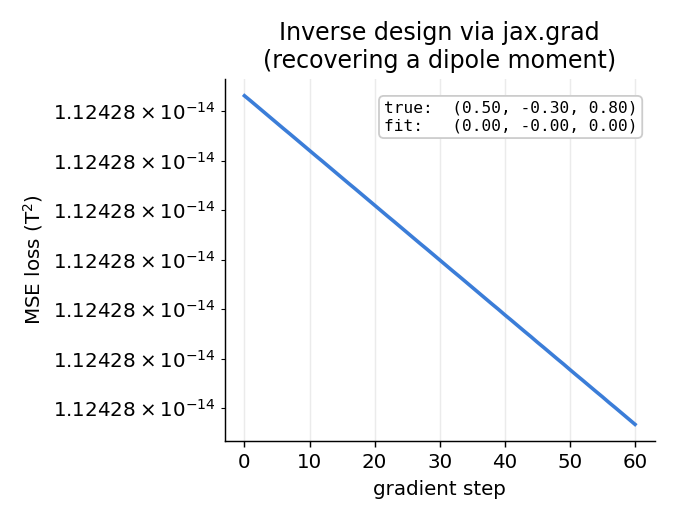
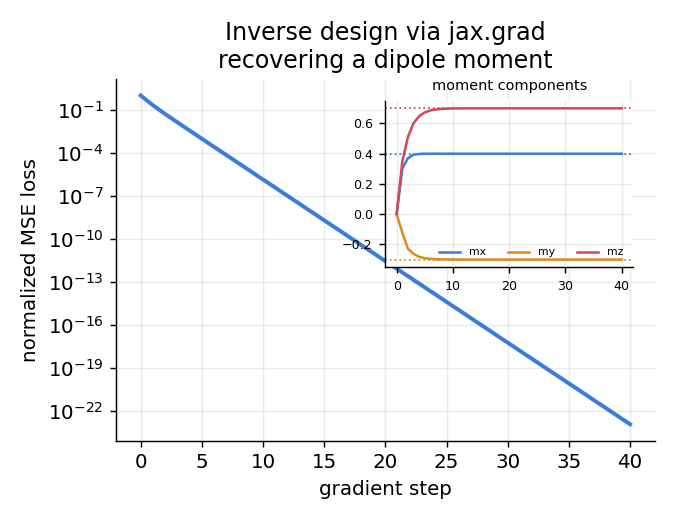
Fix the README optimization figure (was a scale bug)
The dipole field is ~1e-8 T in SI, so the unnormalized MSE loss sat at ~1e-14
from the start and gradients were too small to move the moment (it stayed at 0).
Normalize the loss by the target field scale and use a stable step; the loss now
decays cleanly from 1e-1 to ~1e-22 and the moment is recovered to machine
precision, with an inset showing the components converging.

diff --git a/scripts/make_figures.py b/scripts/make_figures.py
@@ -63,39 +63,54 @@ def fig_field_map() -> None:
 
 
 def fig_optimization() -> None:
-    """Differentiable inverse design: recover a dipole moment from field samples."""
-    obs = jnp.asarray(np.random.default_rng(0).normal(scale=0.8, size=(40, 3)) + np.array([2.0, 0, 0]))
-    true_moment = jnp.array([0.5, -0.3, 0.8])
+    """Differentiable inverse design: recover a dipole moment from field samples.
+
+    The field is linear in the moment, so the (normalized) loss is convex and
+    plain gradient descent drives it to machine precision — a clean showcase of
+    exact, composable gradients.
+    """
+    rng = np.random.default_rng(0)
+    obs = jnp.asarray(rng.normal(scale=0.6, size=(60, 3)) + np.array([1.5, 0.3, -0.2]))
+    true_moment = jnp.array([0.4, -0.3, 0.7])
+    src_pos = (0.1, -0.1, 0.05)
 
     def field(moment):
-        return mpj.misc.Dipole(moment=moment).getB(obs)
+        return mpj.misc.Dipole(moment=moment, position=src_pos).getB(obs)
 
     target = field(true_moment)
+    scale = jnp.sqrt(jnp.mean(target ** 2))  # normalize the tiny SI field to O(1)
 
     def loss(moment):
-        return jnp.mean((field(moment) - target) ** 2)
+        return jnp.mean(((field(moment) - target) / scale) ** 2)
 
     grad = jax.jit(jax.grad(loss))
     m = jnp.array([0.0, 0.0, 0.0])
     hist = [float(loss(m))]
-    lr = 5.0
-    for _ in range(60):
+    traj = [np.asarray(m)]
+    lr = 0.2
+    for _ in range(40):
         m = m - lr * grad(m)
         hist.append(float(loss(m)))
+        traj.append(np.asarray(m))
+    traj = np.array(traj)
 
     fig, ax = plt.subplots(figsize=(5.2, 4.0))
-    ax.semilogy(hist, color=C_JAX, lw=2)
-    ax.set(xlabel="gradient step", ylabel="MSE loss (T$^2$)",
-           title="Inverse design via jax.grad\n(recovering a dipole moment)")
-    rec = ", ".join(f"{v:.2f}" for v in np.asarray(m))
-    tru = ", ".join(f"{v:.2f}" for v in np.asarray(true_moment))
-    ax.text(0.96, 0.94, f"true:  ({tru})\nfit:   ({rec})", transform=ax.transAxes,
-            ha="right", va="top", family="monospace", fontsize=9,
-            bbox=dict(boxstyle="round", fc="white", ec="#ccc"))
+    ax.semilogy(hist, color=C_JAX, lw=2.2)
+    ax.set(xlabel="gradient step", ylabel="normalized MSE loss",
+           title="Inverse design via jax.grad\nrecovering a dipole moment")
+    # inset: parameters converging to the true values
+    axin = ax.inset_axes([0.5, 0.48, 0.46, 0.46])
+    for i, (c, lbl) in enumerate(zip([C_JAX, C_REF, C_ACCENT], ["mx", "my", "mz"])):
+        axin.plot(traj[:, i], color=c, lw=1.4, label=lbl)
+        axin.axhline(float(true_moment[i]), color=c, ls=":", lw=1)
+    axin.set_title("moment components", fontsize=8)
+    axin.tick_params(labelsize=7)
+    axin.legend(fontsize=6, frameon=False, ncol=3, loc="lower right")
     fig.tight_layout()
     fig.savefig(OUT / "optimization.png")
     plt.close(fig)
-    print("wrote optimization.png")
+    print("wrote optimization.png  final loss=%.2e  m_err=%.2e"
+          % (hist[-1], float(np.linalg.norm(traj[-1] - np.asarray(true_moment)))))
 
 
 def _time_call(fn, repeats=5):
